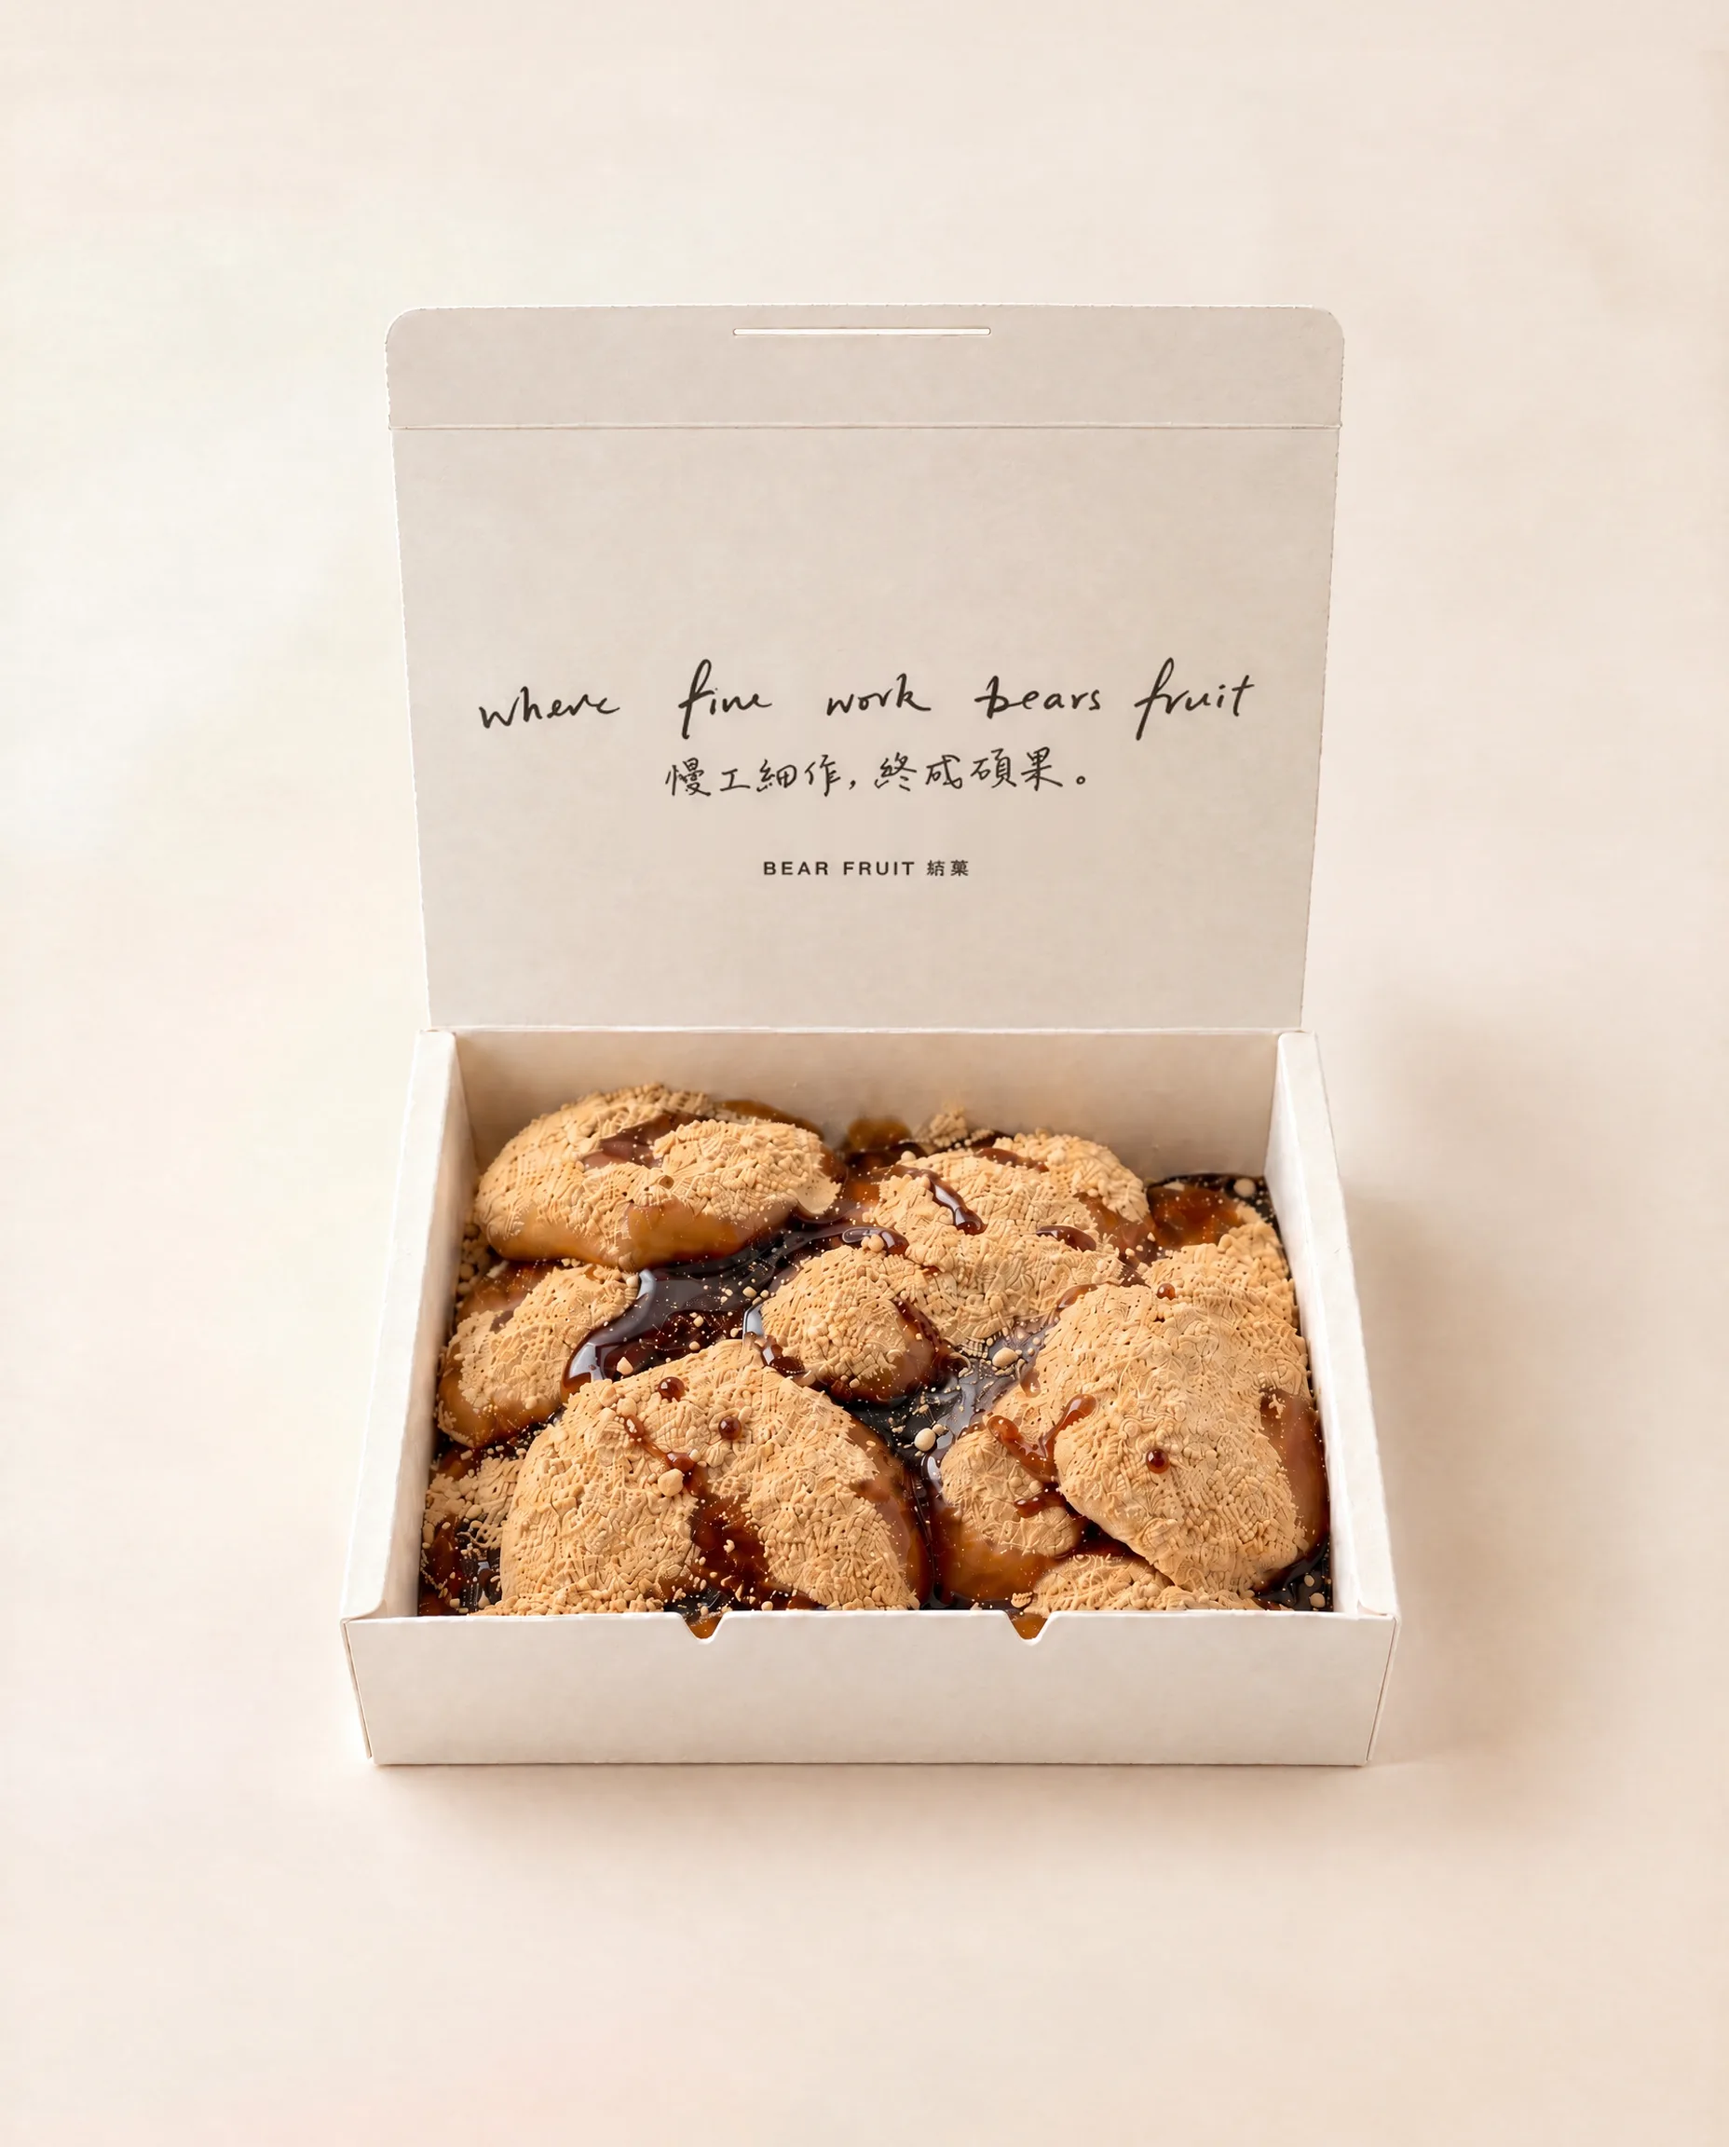
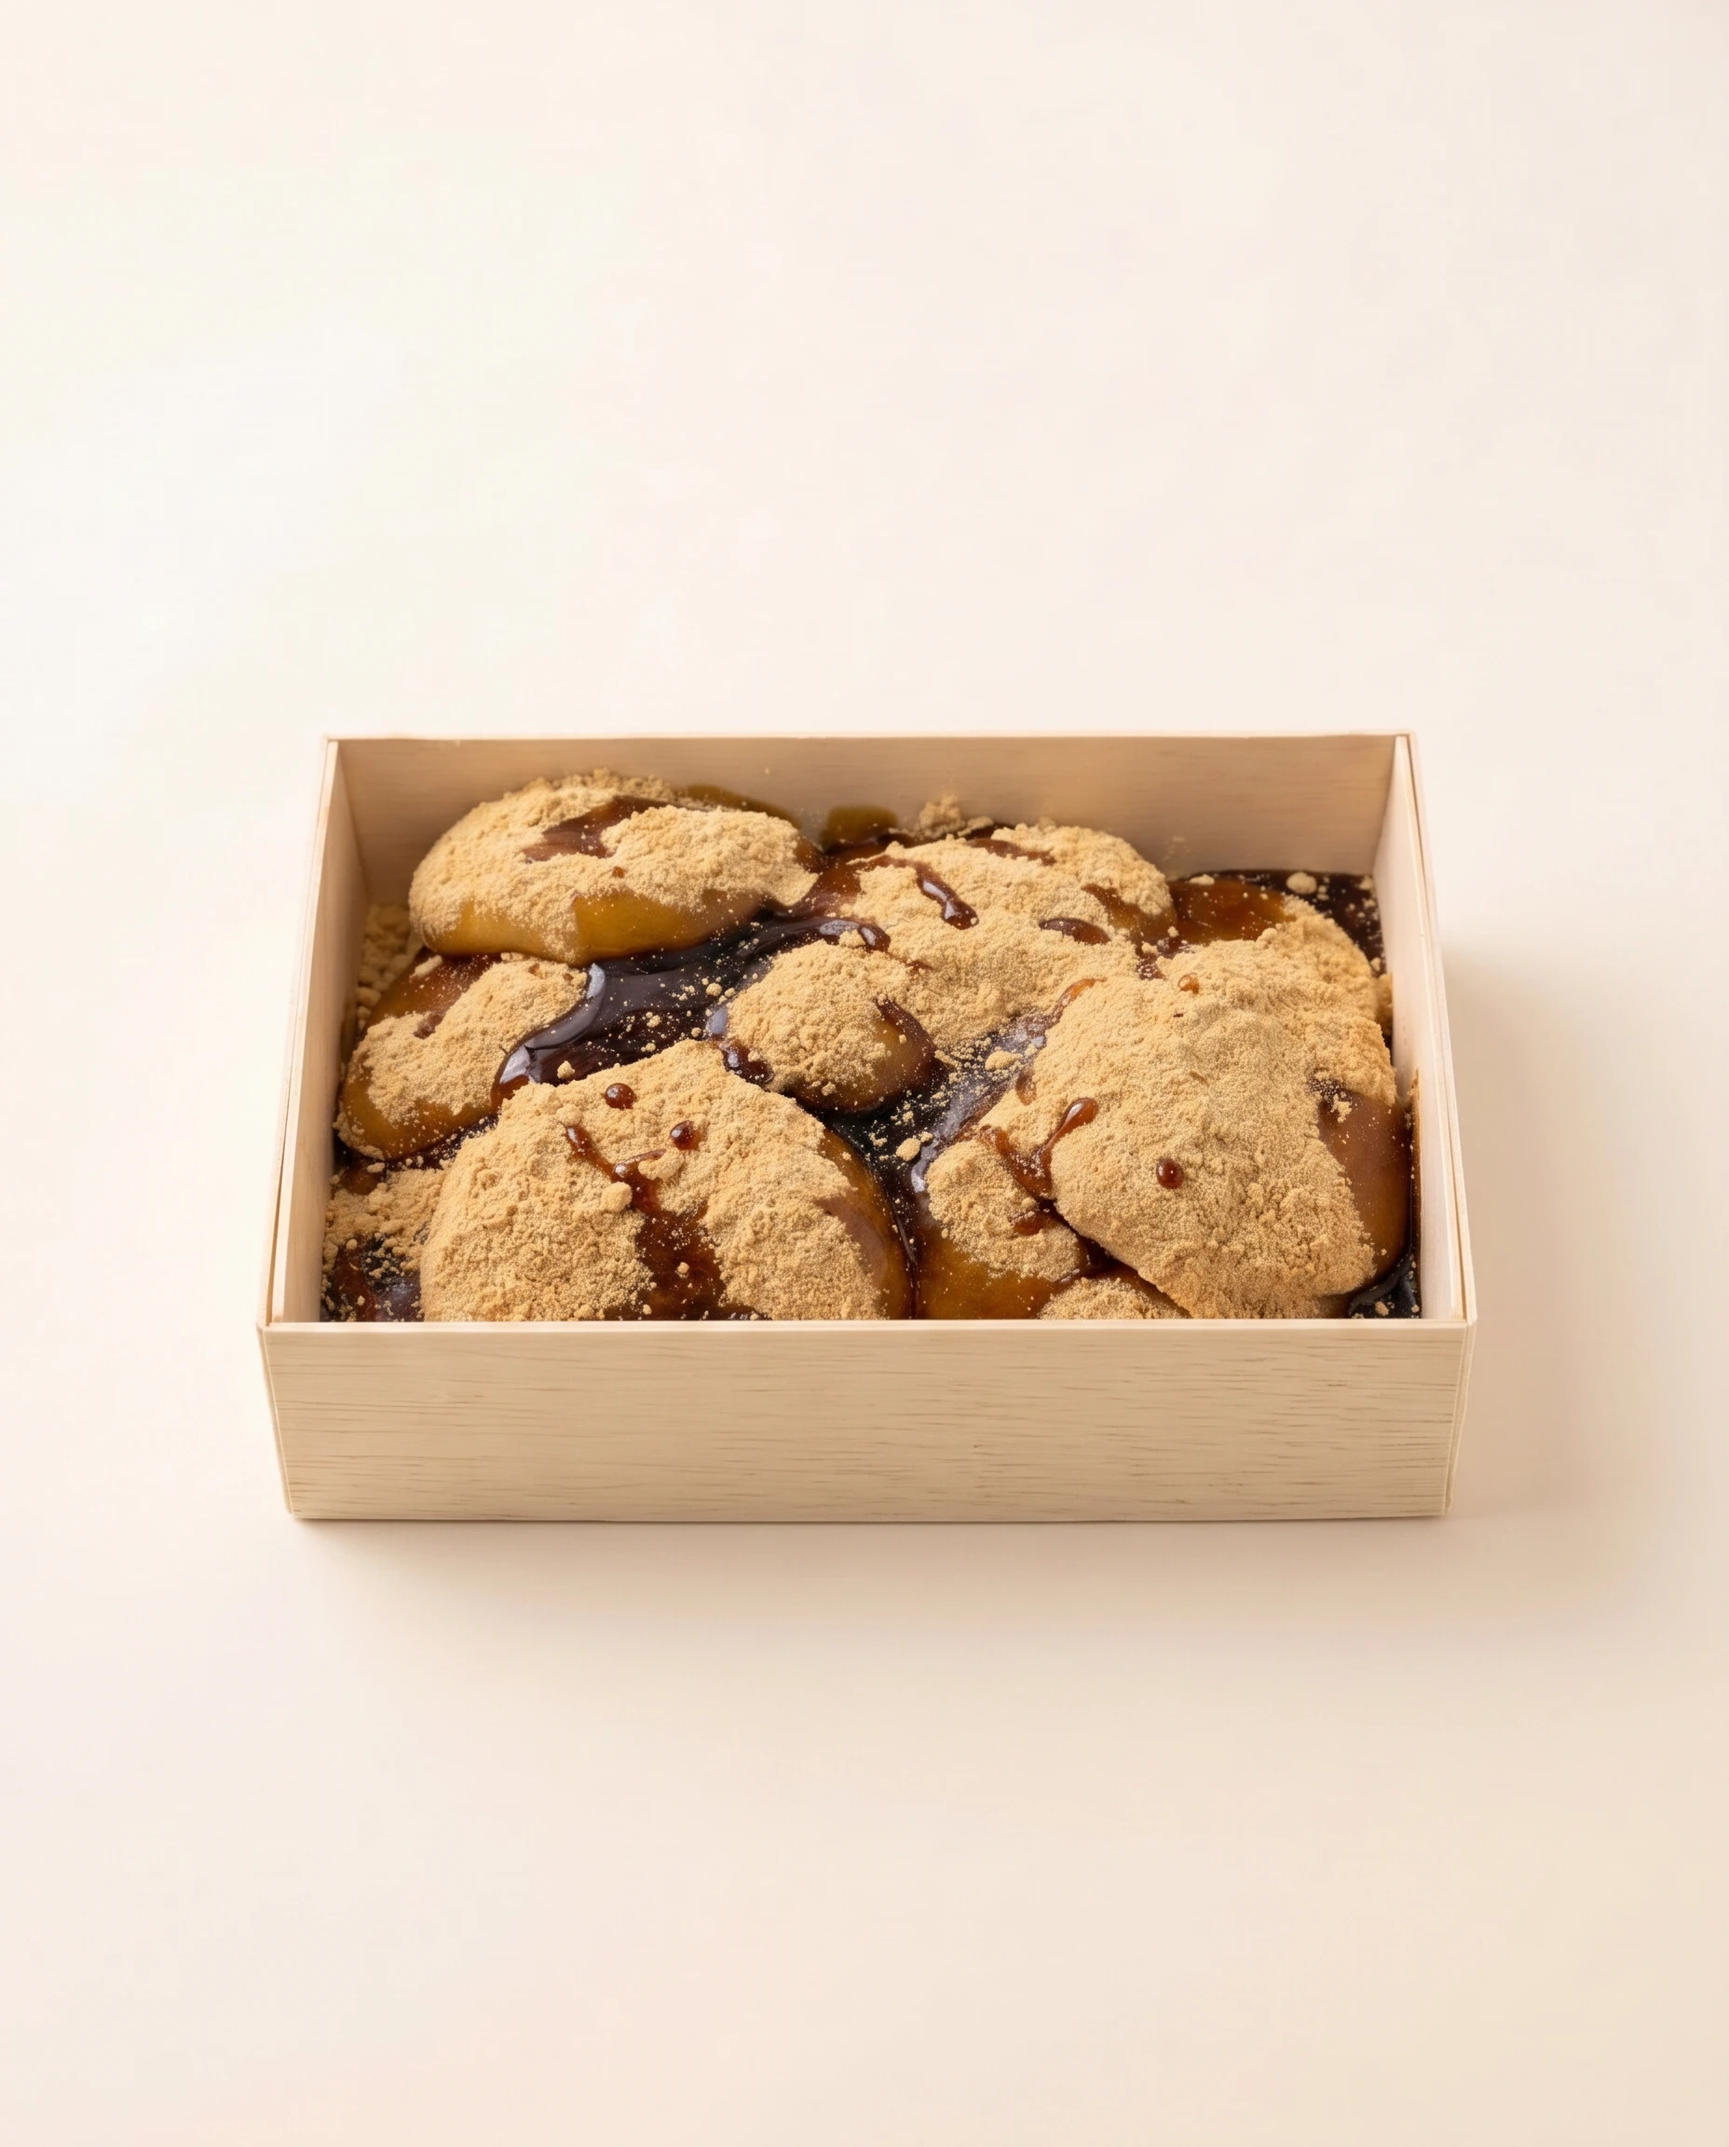
Restore the wooden-box mochi photos
The new-packaging shots looked artificial up close (repeated AI edits
had over-textured the mochi), so the owner asked to put the previous
photos back while they are redone. The Stuffed Mochi 12-piece option
stays removed.

diff --git a/bare-mochi.html b/bare-mochi.html
@@ -17,7 +17,7 @@
   <link rel="preconnect" href="https://fonts.gstatic.com" crossorigin>
   <link rel="stylesheet"
         href="https://fonts.googleapis.com/css2?family=Hanken+Grotesk:wght@300;400;500;600&family=Marcellus&family=Noto+Serif+TC:wght@300;400;500;600&display=swap">
-  <link rel="preload" as="image" href="images/products/bare-mochi/matcha-red-bean (12pcs) lid-off.webp" fetchpriority="high">
+  <link rel="preload" as="image" href="images/products/bare-mochi/matcha-red-bean (12pcs).webp" fetchpriority="high">
 
   <meta property="og:type" content="website">
   <meta property="og:title" content="Bare Mochi 裸麻糬 — Bear Fruit 結菓">
@@ -101,9 +101,9 @@
   <section class="pd-hero" aria-label="Product">
     <div class="pd-hero__media" id="pdMedia" data-rotate>
       <div class="ph" aria-hidden="true"><span class="ph-label">Bare Mochi</span><span class="ph-spec">images/products/bare-mochi/</span></div>
-      <img class="pd-hero__img is-active" src="images/products/bare-mochi/matcha-red-bean (12pcs) lid-off.webp" alt="Bare Mochi 裸麻糬 — Matcha Red Bean 抹茶蜜紅豆" loading="eager" fetchpriority="high" onerror="this.remove()">
-      <img class="pd-hero__img" src="images/products/bare-mochi/sea-salt-cocoa-crunch (12pcs) lid-off.webp" alt="Bare Mochi 裸麻糬 — Sea Salt Cocoa Crunch 奶蓋濃可可" loading="eager" onerror="this.remove()">
-      <img class="pd-hero__img" src="images/products/bare-mochi/kuromitsu-kinako (12pcs) lid-off.webp" alt="Bare Mochi 裸麻糬 — Kuromitsu Kinako 黑糖黃豆粉" loading="eager" onerror="this.remove()">
+      <img class="pd-hero__img is-active" src="images/products/bare-mochi/matcha-red-bean (12pcs).webp" alt="Bare Mochi 裸麻糬 — Matcha Red Bean 抹茶蜜紅豆" loading="eager" fetchpriority="high" onerror="this.remove()">
+      <img class="pd-hero__img" src="images/products/bare-mochi/sea-salt-cocoa-crunch (12pcs).webp" alt="Bare Mochi 裸麻糬 — Sea Salt Cocoa Crunch 奶蓋濃可可" loading="eager" onerror="this.remove()">
+      <img class="pd-hero__img" src="images/products/bare-mochi/kuromitsu-kinako (12pcs).webp" alt="Bare Mochi 裸麻糬 — Kuromitsu Kinako 黑糖黃豆粉" loading="eager" onerror="this.remove()">
     </div>
     <div class="pd-hero__info">
       <h1 class="pd-name" id="pdName">Bare Mochi<span class="pd-name-cjk">裸麻糬</span></h1>

diff --git a/product.html b/product.html
@@ -168,7 +168,7 @@
       descEn:'Soft, pillowy milk mochi, finished with carefully paired drizzles and toppings.',
       descTc:'軟糯的牛奶麻糬，配以精心調配的淋醬與配料。',
       folder:'images/products/bare-mochi/',
-      images:['images/products/bare-mochi/matcha-red-bean (12pcs) lid-off.webp','images/products/bare-mochi/sea-salt-cocoa-crunch (12pcs) lid-off.webp','images/products/bare-mochi/kuromitsu-kinako (12pcs) lid-off.webp'],
+      images:['images/products/bare-mochi/matcha-red-bean (12pcs).webp','images/products/bare-mochi/sea-salt-cocoa-crunch (12pcs).webp','images/products/bare-mochi/kuromitsu-kinako (12pcs).webp'],
       flavoursEn:['Matcha Red Bean','Sea Salt Cocoa Crunch','Kuromitsu Kinako'],
       flavoursTc:['抹茶蜜紅豆','奶蓋濃可可','黑糖黃豆粉'],
       pack:[{en:'6-Piece Box',tc:'6 件裝',price:'HK$30–32',imgs:['images/products/bare-mochi/matcha-red-bean (6pcs).webp','images/products/bare-mochi/sea-salt-cocoa-crunch (6pcs).webp','images/products/bare-mochi/kuromitsu-kinako (6pcs).webp']},{en:'12-Piece Box',tc:'12 件裝',price:'HK$40–42',imgs:['images/products/bare-mochi/matcha-red-bean (12pcs).webp','images/products/bare-mochi/sea-salt-cocoa-crunch (12pcs).webp','images/products/bare-mochi/kuromitsu-kinako (12pcs).webp']}]
@@ -177,7 +177,7 @@
       en:'Stuffed Mochi', tc:'包餡麻糬',
       descEn:'Soft milk mochi wrapping a perfectly balanced filling. Available in six flavours.',
       descTc:'軟糯煙韌的牛奶麻糬，包裹著比例適中的內餡，備有六款口味。',
-      images:['images/products/stuffed-mochi/stuffed-mochi (6pcs) lid-off.webp'],
+      images:['images/products/stuffed-mochi/stuffed-mochi (6pcs).webp'],
       flavoursEn:['Roasted Kinako','Hazelnut Chocolate','Peanut Crunch','Premium Pistachio','Black & White Sesame','Matcha Red Bean'],
       flavoursTc:['經典黃豆粉','榛子朱古力','花生糖不甩','特濃開心果','芝麻黑白配','抹茶蜜紅豆'],
       pack:[

diff --git a/stuffed-mochi.html b/stuffed-mochi.html
@@ -17,7 +17,7 @@
   <link rel="preconnect" href="https://fonts.gstatic.com" crossorigin>
   <link rel="stylesheet"
         href="https://fonts.googleapis.com/css2?family=Hanken+Grotesk:wght@300;400;500;600&family=Marcellus&family=Noto+Serif+TC:wght@300;400;500;600&display=swap">
-  <link rel="preload" as="image" href="images/products/stuffed-mochi/stuffed-mochi (6pcs) lid-off.webp" fetchpriority="high">
+  <link rel="preload" as="image" href="images/products/stuffed-mochi/stuffed-mochi (6pcs).webp" fetchpriority="high">
 
   <meta property="og:type" content="website">
   <meta property="og:title" content="Stuffed Mochi 包餡麻糬 — Bear Fruit 結菓">
@@ -100,8 +100,8 @@
   <!-- ══ HERO: photo + name + description ══ -->
   <section class="pd-hero" aria-label="Product">
     <div class="pd-hero__media" id="pdMedia">
-      <div class="ph" aria-hidden="true"><span class="ph-label">Stuffed Mochi</span><span class="ph-spec">images/products/stuffed-mochi/stuffed-mochi (6pcs) lid-off.webp</span></div>
-      <img class="pd-hero__img is-active" src="images/products/stuffed-mochi/stuffed-mochi (6pcs) lid-off.webp" alt="Stuffed Mochi 包餡麻糬" loading="eager" fetchpriority="high" onerror="this.remove()">
+      <div class="ph" aria-hidden="true"><span class="ph-label">Stuffed Mochi</span><span class="ph-spec">images/products/stuffed-mochi/stuffed-mochi (6pcs).webp</span></div>
+      <img class="pd-hero__img is-active" src="images/products/stuffed-mochi/stuffed-mochi (6pcs).webp" alt="Stuffed Mochi 包餡麻糬" loading="eager" fetchpriority="high" onerror="this.remove()">
     </div>
     <div class="pd-hero__info">
       <h1 class="pd-name" id="pdName">Stuffed Mochi<span class="pd-name-cjk">包餡麻糬</span></h1>
